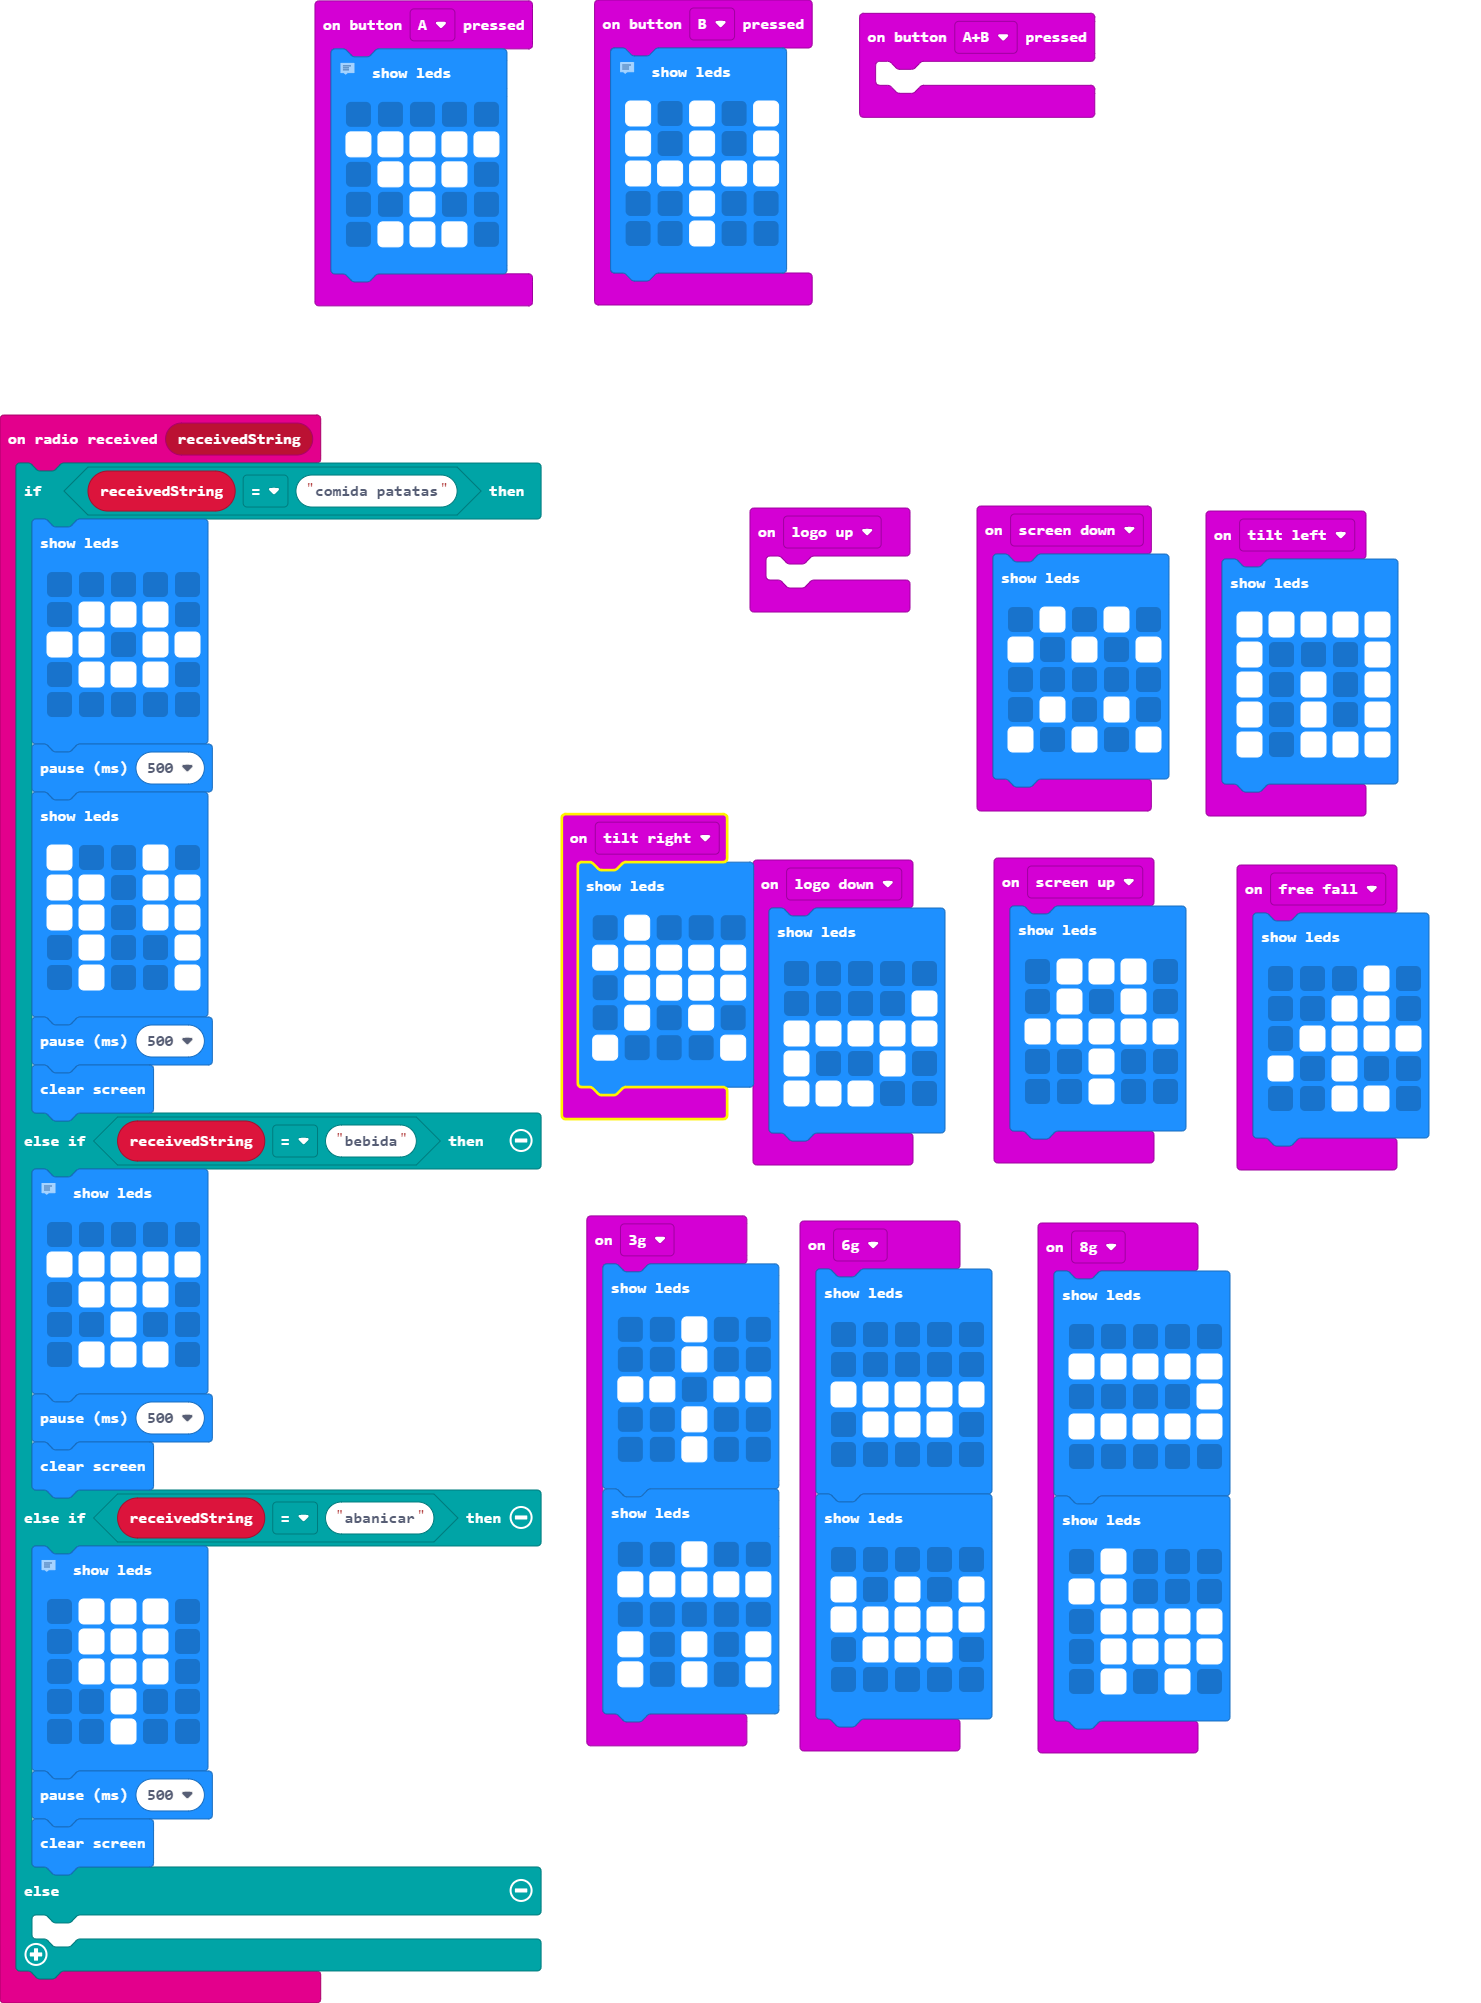
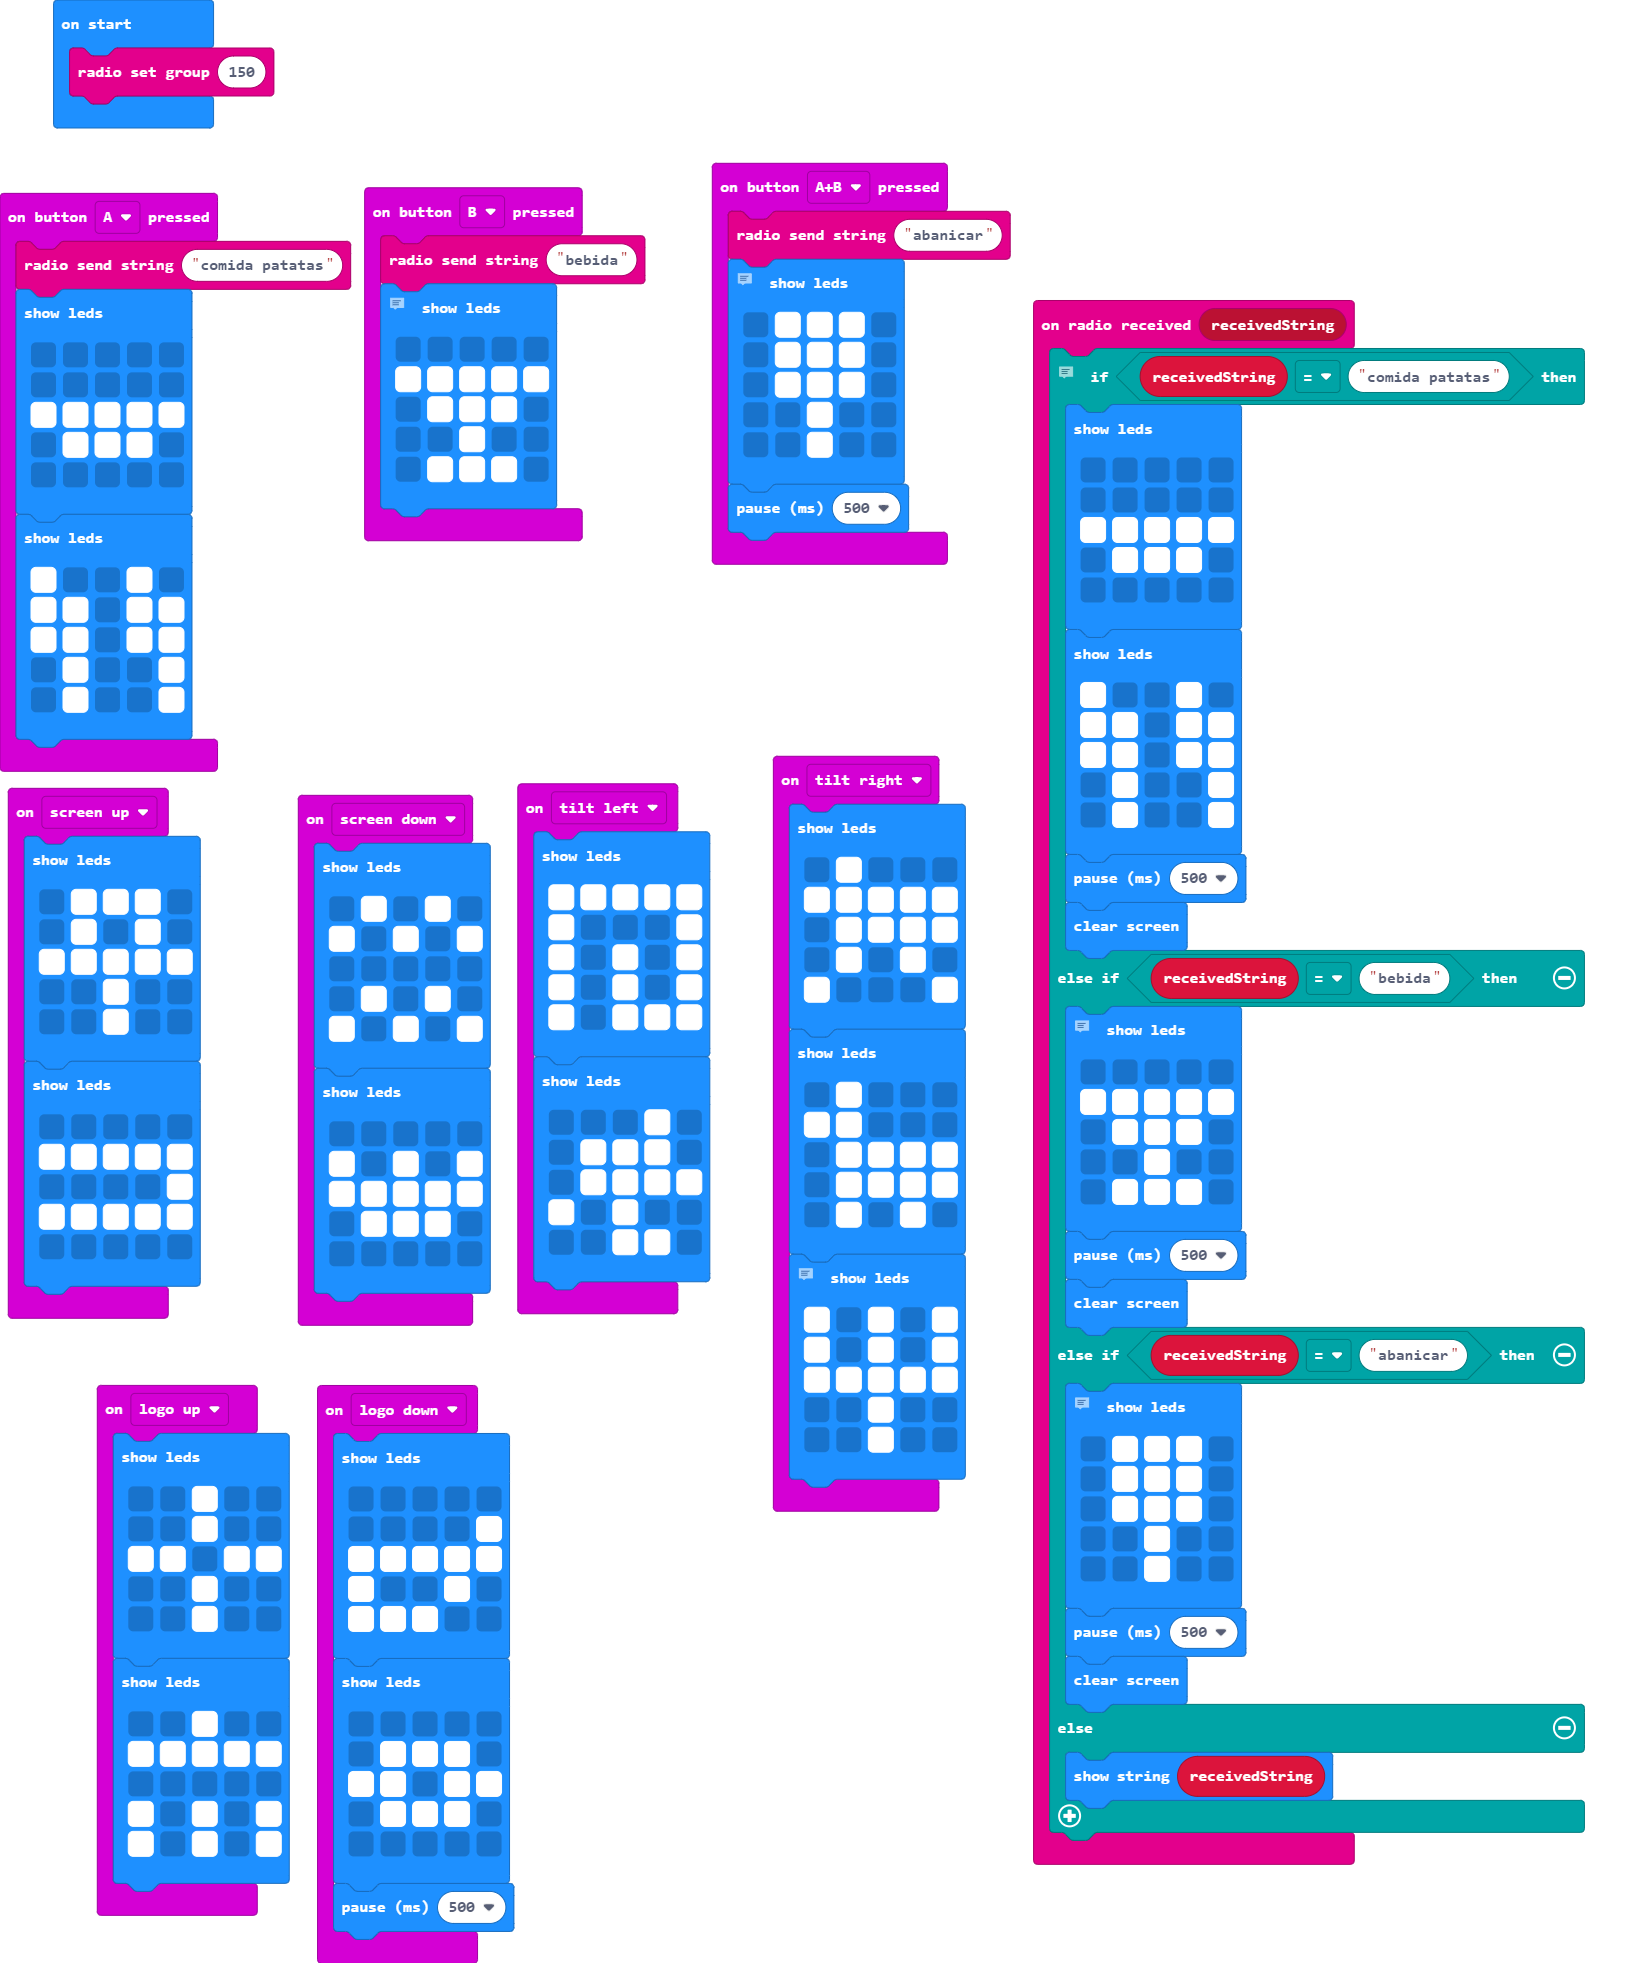
Update main.blocks, main.ts

diff --git a/main.ts b/main.ts
@@ -1,40 +1,35 @@
-input.onGesture(Gesture.EightG, function () {
-    basic.showLeds(`
-        . . . . .
-        # # # # #
-        . . . . #
-        # # # # #
-        . . . . .
-        `)
-    basic.showLeds(`
-        . # . . .
-        # # . . .
-        . # # # #
-        . # # # #
-        . # . # .
-        `)
-})
 input.onButtonPressed(Button.A, function () {
-    // beber
+    radio.sendString("comida patatas")
     basic.showLeds(`
+        . . . . .
         . . . . .
         # # # # #
         . # # # .
-        . . # . .
-        . # # # .
+        . . . . .
         `)
-})
-input.onGesture(Gesture.FreeFall, function () {
     basic.showLeds(`
-        . . . # .
-        . . # # .
-        . # # # #
-        # . # . .
-        . . # # .
+        # . . # .
+        # # . # #
+        # # . # #
+        . # . . #
+        . # . . #
         `)
 })
 input.onGesture(Gesture.LogoUp, function () {
-	
+    basic.showLeds(`
+        . . # . .
+        . . # . .
+        # # . # #
+        . . # . .
+        . . # . .
+        `)
+    basic.showLeds(`
+        . . # . .
+        # # # # #
+        . . . . .
+        # . # . #
+        # . # . #
+        `)
 })
 input.onGesture(Gesture.TiltLeft, function () {
     basic.showLeds(`
@@ -44,21 +39,12 @@ input.onGesture(Gesture.TiltLeft, function () {
         # . # . #
         # . # # #
         `)
-})
-input.onGesture(Gesture.SixG, function () {
     basic.showLeds(`
-        . . . . .
-        . . . . .
-        # # # # #
+        . . . # .
         . # # # .
-        . . . . .
-        `)
-    basic.showLeds(`
-        . . . . .
-        # . # . #
-        # # # # #
-        . # # # .
-        . . . . .
+        . # # # #
+        # . # . .
+        . . # # .
         `)
 })
 input.onGesture(Gesture.ScreenUp, function () {
@@ -69,6 +55,13 @@ input.onGesture(Gesture.ScreenUp, function () {
         . . # . .
         . . # . .
         `)
+    basic.showLeds(`
+        . . . . .
+        # # # # #
+        . . . . #
+        # # # # #
+        . . . . .
+        `)
 })
 input.onGesture(Gesture.ScreenDown, function () {
     basic.showLeds(`
@@ -78,20 +71,36 @@ input.onGesture(Gesture.ScreenDown, function () {
         . # . # .
         # . # . #
         `)
+    basic.showLeds(`
+        . . . . .
+        # . # . #
+        # # # # #
+        . # # # .
+        . . . . .
+        `)
 })
 input.onButtonPressed(Button.AB, function () {
-	
+    radio.sendString("abanicar")
+    // abanicar
+    basic.showLeds(`
+        . # # # .
+        . # # # .
+        . # # # .
+        . . # . .
+        . . # . .
+        `)
+    basic.pause(500)
 })
 radio.onReceivedString(function (receivedString) {
+    // añadir los que se quieran
     if (receivedString == "comida patatas") {
         basic.showLeds(`
             . . . . .
-            . # # # .
-            # # . # #
+            . . . . .
+            # # # # #
             . # # # .
             . . . . .
             `)
-        basic.pause(500)
         basic.showLeds(`
             # . . # .
             # # . # #
@@ -124,17 +133,18 @@ radio.onReceivedString(function (receivedString) {
         basic.pause(500)
         basic.clearScreen()
     } else {
-    	
+        basic.showString(receivedString)
     }
 })
 input.onButtonPressed(Button.B, function () {
-    // comer
+    radio.sendString("bebida")
+    // beber
     basic.showLeds(`
-        # . # . #
-        # . # . #
+        . . . . .
         # # # # #
+        . # # # .
         . . # . .
-        . . # . .
+        . # # # .
         `)
 })
 input.onGesture(Gesture.TiltRight, function () {
@@ -145,6 +155,21 @@ input.onGesture(Gesture.TiltRight, function () {
         . # . # .
         # . . . #
         `)
+    basic.showLeds(`
+        . # . . .
+        # # . . .
+        . # # # #
+        . # # # #
+        . # . # .
+        `)
+    // comer
+    basic.showLeds(`
+        # . # . #
+        # . # . #
+        # # # # #
+        . . # . .
+        . . # . .
+        `)
 })
 input.onGesture(Gesture.LogoDown, function () {
     basic.showLeds(`
@@ -154,20 +179,13 @@ input.onGesture(Gesture.LogoDown, function () {
         # . . # .
         # # # . .
         `)
-})
-input.onGesture(Gesture.ThreeG, function () {
     basic.showLeds(`
-        . . # . .
-        . . # . .
-        # # . # #
-        . . # . .
-        . . # . .
-        `)
-    basic.showLeds(`
-        . . # . .
-        # # # # #
         . . . . .
-        # . # . #
-        # . # . #
+        . # # # .
+        # # . # #
+        . # # # .
+        . . . . .
         `)
+    basic.pause(500)
 })
+radio.setGroup(150)
